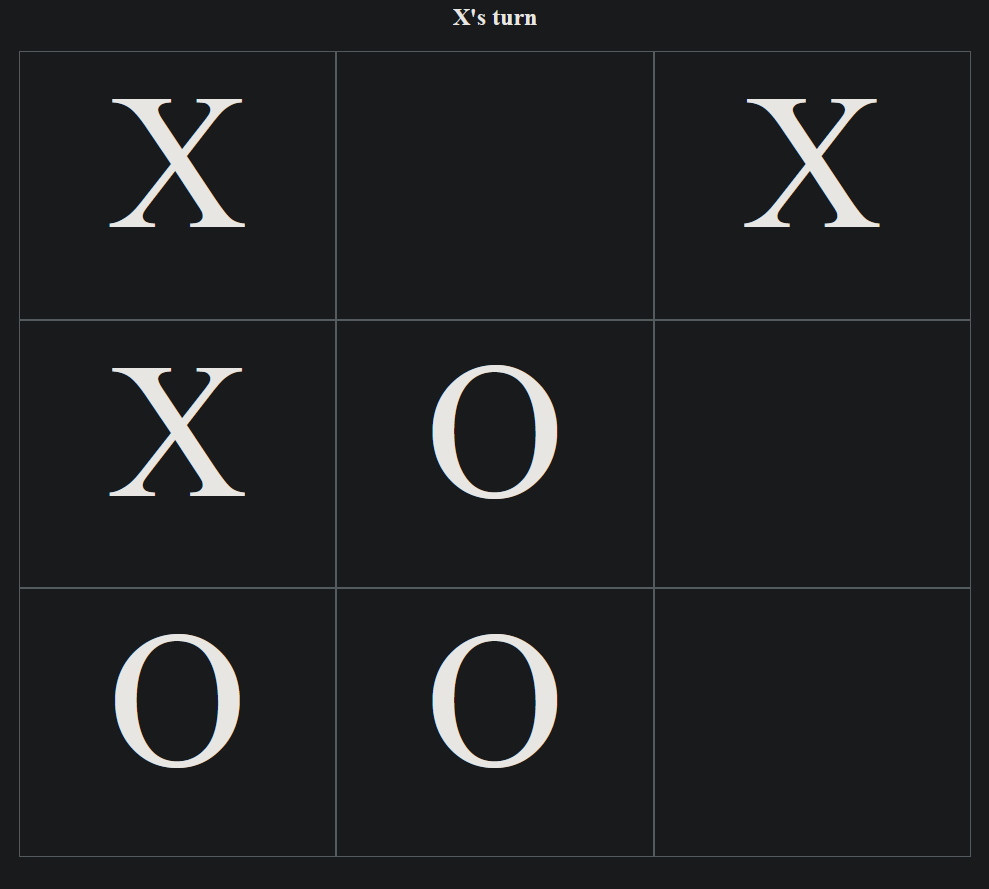
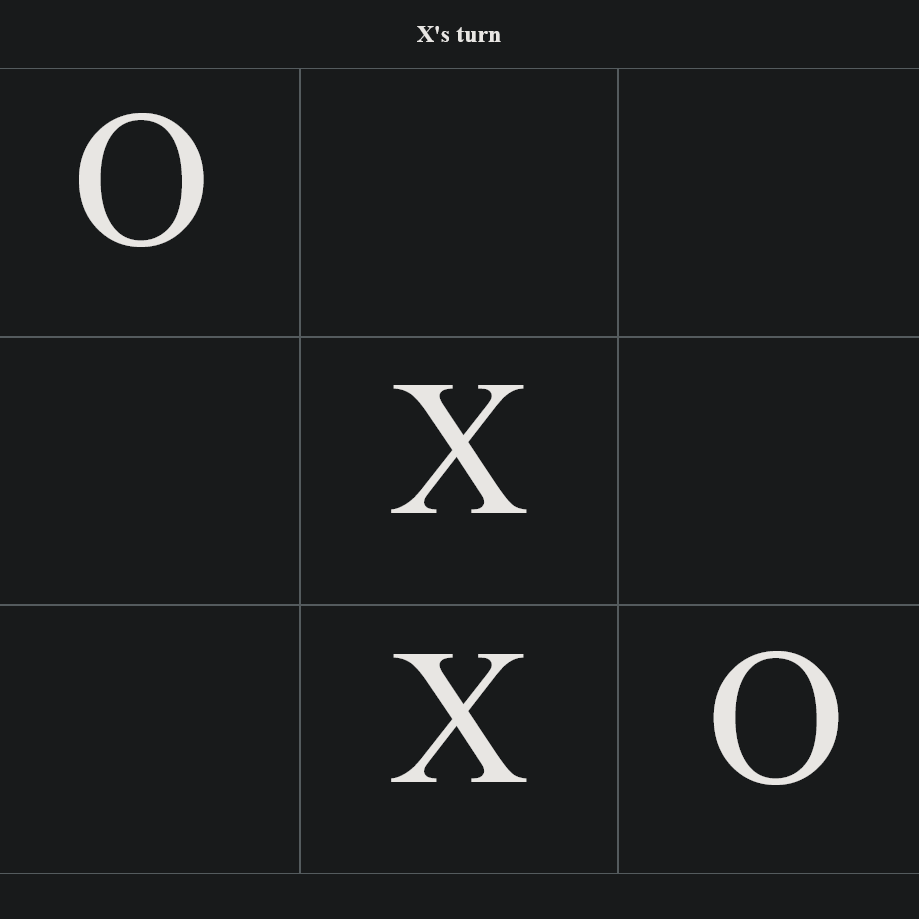
updated tictactoe project pic and made the alignment of the projects page a little better

diff --git a/src/App.css b/src/App.css
@@ -172,7 +172,8 @@ button:hover {
   display: block;
   text-decoration: none;
   transition: all .2s ease-in-out;
-  margin: 0.5vw 1vw 0 1vw;
+  position: absolute;
+  top: 0;
 
 }
 .projects a:hover {
@@ -184,19 +185,24 @@ button:hover {
   background-color: #3dc4ff;
   box-shadow: rgba(0, 0, 0, 0.16) 0px 10px 36px 0px, rgba(0, 0, 0, 0.06) 0px 0px 0px 1px;
   width: 23%;
+  display: flex;
+  flex-direction: column;
+  justify-content: flex-end;
+  align-items: center;
+  position: relative;
 }
 .projects span {
   display: inline-block;
-  margin-bottom: 0.5vw;
   color: white;
+  margin-bottom: 1vw;
 }
 .projects span:hover {
   color: white;
 }
 .projects img {
   width: 90%;
-  margin: 1vw auto 0 auto;
   border-radius: 1vw;
+  margin-top: 3.5vw;
 }
 
 /*-------------------------------------------------------------*/
@@ -304,6 +310,7 @@ button:hover {
   }
   .projects img {
     border-radius: 2vw;
+    margin-top: 12vw;
   }
 }
 @media (min-width: 541px) and (max-width: 820px){
@@ -410,5 +417,6 @@ button:hover {
   }
   .projects img {
     border-radius: 2vw;
+    margin-top: 10vw;
   }
 }
